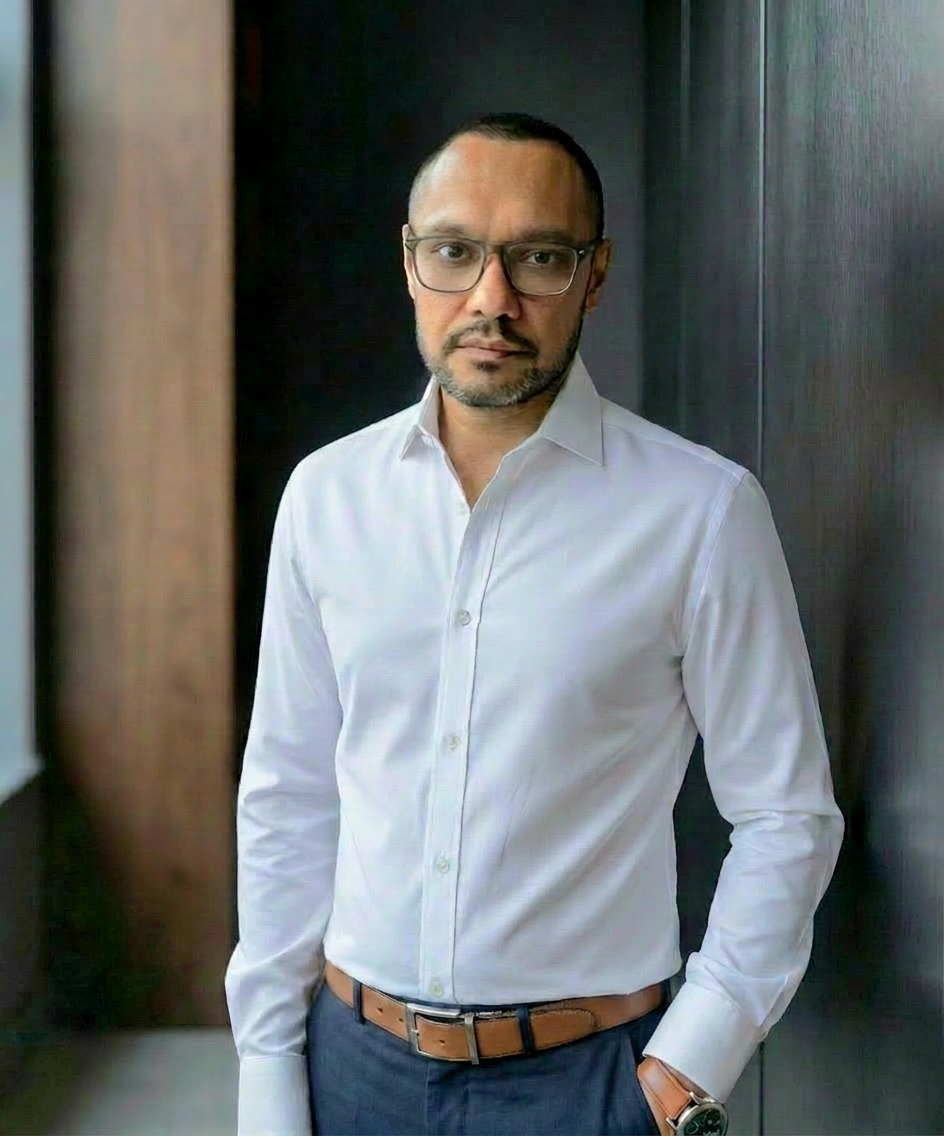
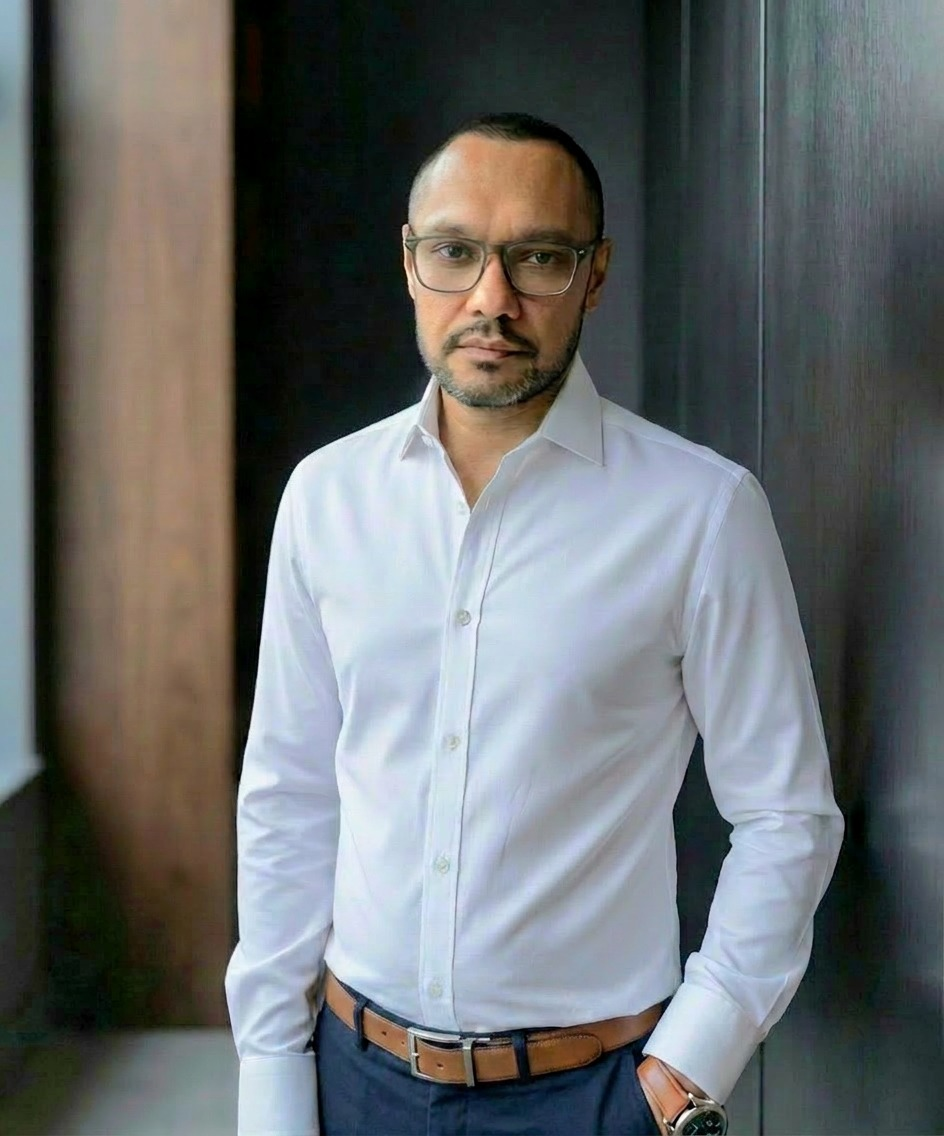
v4.6.0: portrait — FINAL V2 swap

Changed region(s): [[0.3072, 0.8011, 0.768, 1.0]]

diff --git a/index.html b/index.html
@@ -388,7 +388,7 @@
         <div class="about-grid">
           <figure class="portrait-figure">
             <div class="portrait-artwork">
-              <img src="assets/portrait.jpg?v=4.5.0"
+              <img src="assets/portrait.jpg?v=4.6.0"
                    alt="Taran Aujla, Salesperson with HomeLife G1 Realty Inc., Brokerage. Editorial portrait."
                    width="880" height="1184"
                    loading="lazy" decoding="async" />
